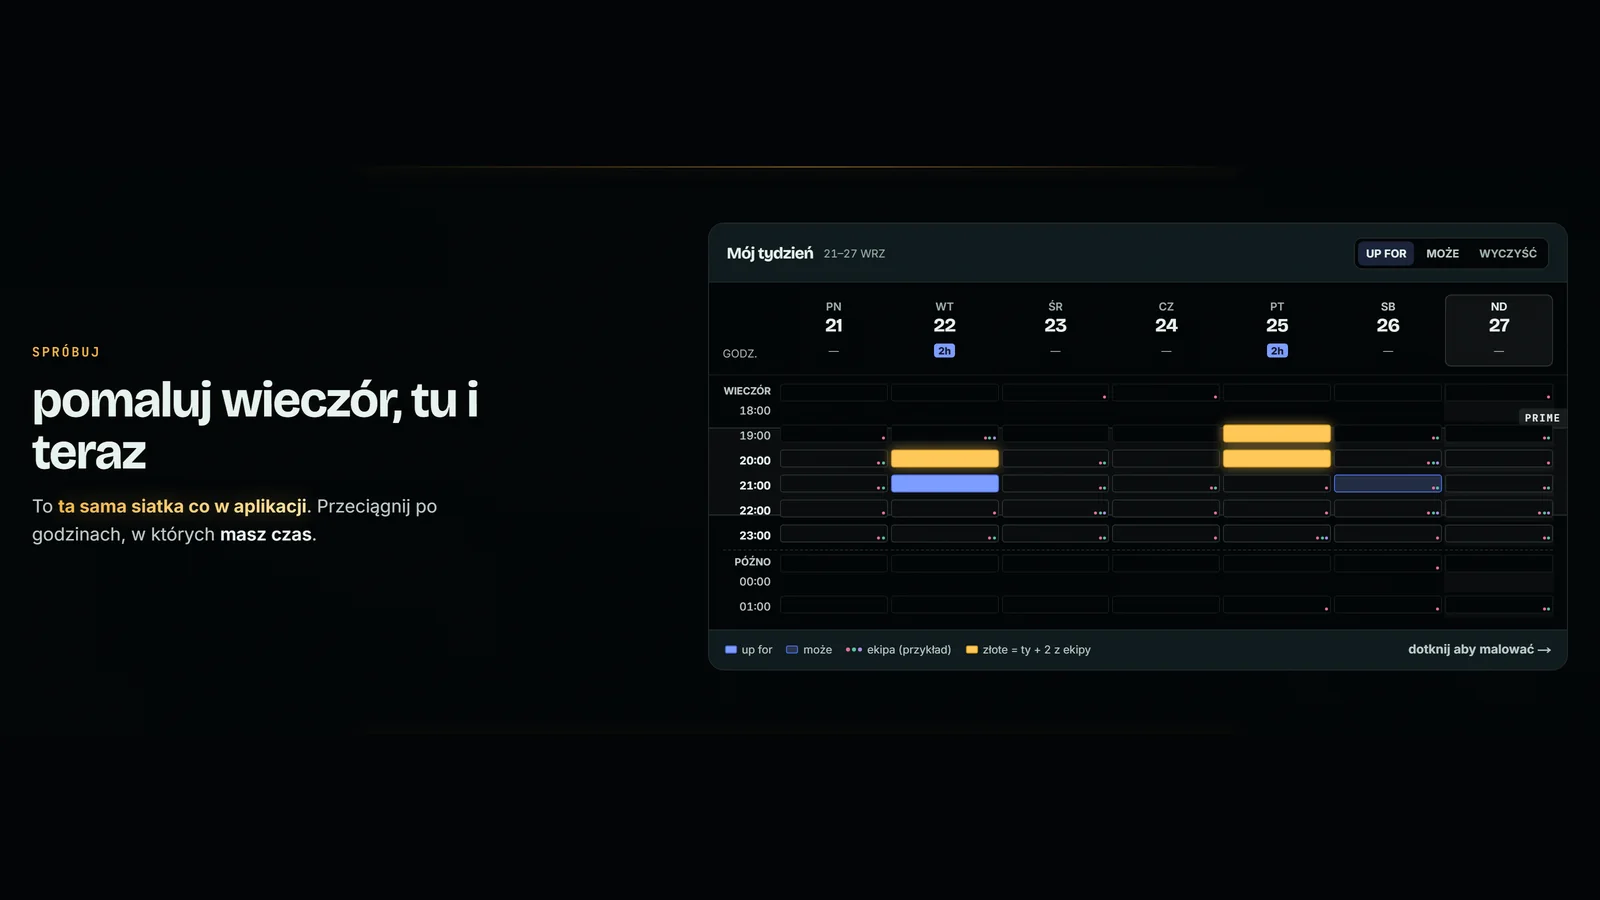
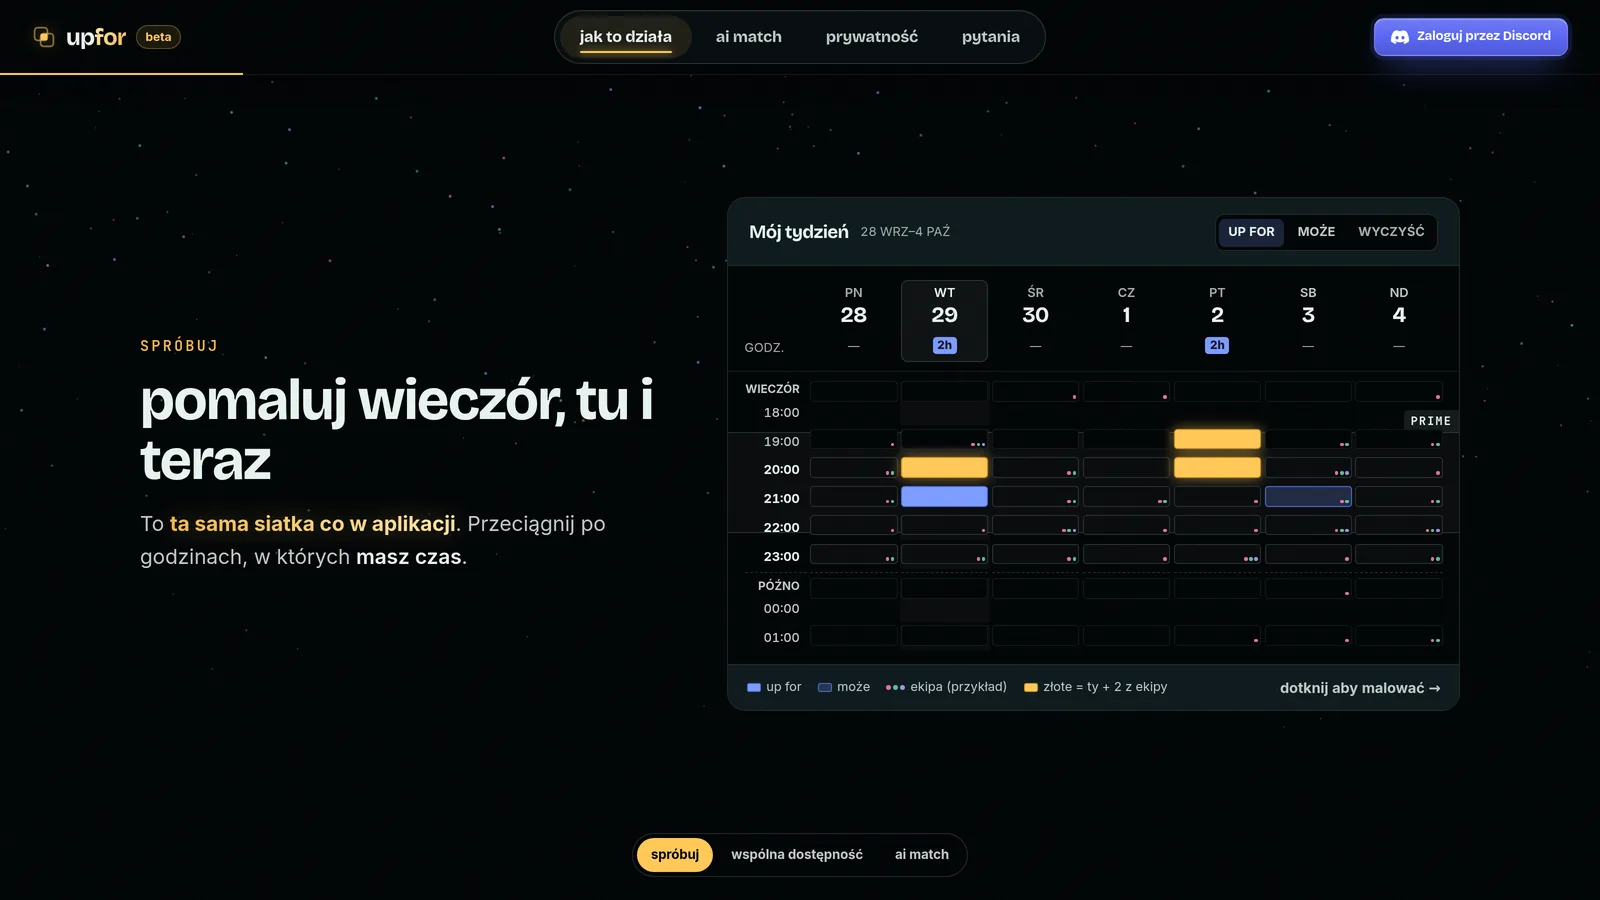
feat: aktualne zrzuty upfor i galeria Majeranka
upfor: cztery zrzuty z produkcji zrobione na nowo (29.09) po restylu
landingu — strona główna ze złotym oknem, „pomaluj wieczór”, wspólna
dostępność i ai match. Plansze „jak to działa” są teraz przewijane w poziomie,
więc każdą łapię przyciskiem kroku, a hero w klatce z gotowym złotym oknem.
Wersje: upfor.webp ?v=4, pozostałe ?v=2.

Majeranek: zamiast jednego zrzutu sprzed redesignu (czerwiec) galeria jak przy
Zorzy i upfor: nowy hero w stylu riso, „Cztery proste kroki”, sekcja AI/ELO
i widok „Odkryj kolekcje”. Zrzuty w 4:3 (1600×1200), bo slajd Majeranka
używa `object-fit: cover` i przy 16:9 ramka ucinała boki. Pasek adresu
podpisany „strona główna” z wersją EN, poprawiony alt („Zrzut ekranu: Majeranek”),
majeranek.webp ?v=3.

Claude-Session: https://claude.ai/code/session_01T3urgCYLpL9u9585afoXpj

diff --git a/index.html b/index.html
@@ -632,7 +632,7 @@
                                             <span class="showcase-url" data-en="upfor.pl · home">upfor.pl · strona główna</span>
                                         </div>
                                         <div class="showcase-stage">
-                                            <img class="showcase-img showcase-img--contain" src="assets/images/upfor.webp?v=3" alt="Zrzut ekranu: upfor" loading="lazy">
+                                            <img class="showcase-img showcase-img--contain" src="assets/images/upfor.webp?v=4" alt="Zrzut ekranu: upfor" loading="lazy">
                                             <div class="showcase-media-placeholder" aria-hidden="true">
                                                 <svg viewBox="0 0 24 24" fill="none" stroke="currentColor" stroke-width="1.4"><rect x="3" y="3" width="18" height="18" rx="2"/><circle cx="8.5" cy="8.5" r="1.5"/><path d="M21 15l-5-5L5 21"/></svg>
                                                 <span class="showcase-media-placeholder-note" data-en="Preview coming soon">Podgląd wkrótce</span>
@@ -640,10 +640,10 @@
                                         </div>
                                     </div>
                                     <div class="showcase-gallery">
-                                        <button type="button" class="showcase-thumb is-active" data-src="assets/images/upfor.webp?v=3" aria-label="Zrzut 1"><img src="assets/images/upfor.webp?v=3" alt="" loading="lazy"></button>
-                                        <button type="button" class="showcase-thumb" data-src="assets/images/upfor-kalendarz.webp" aria-label="Zrzut 2"><img src="assets/images/upfor-kalendarz.webp" alt="" loading="lazy"></button>
-                                        <button type="button" class="showcase-thumb" data-src="assets/images/upfor-grupa.webp" aria-label="Zrzut 3"><img src="assets/images/upfor-grupa.webp" alt="" loading="lazy"></button>
-                                        <button type="button" class="showcase-thumb" data-src="assets/images/upfor-ai.webp" aria-label="Zrzut 4"><img src="assets/images/upfor-ai.webp" alt="" loading="lazy"></button>
+                                        <button type="button" class="showcase-thumb is-active" data-src="assets/images/upfor.webp?v=4" aria-label="Zrzut 1"><img src="assets/images/upfor.webp?v=4" alt="" loading="lazy"></button>
+                                        <button type="button" class="showcase-thumb" data-src="assets/images/upfor-kalendarz.webp?v=2" aria-label="Zrzut 2"><img src="assets/images/upfor-kalendarz.webp?v=2" alt="" loading="lazy"></button>
+                                        <button type="button" class="showcase-thumb" data-src="assets/images/upfor-grupa.webp?v=2" aria-label="Zrzut 3"><img src="assets/images/upfor-grupa.webp?v=2" alt="" loading="lazy"></button>
+                                        <button type="button" class="showcase-thumb" data-src="assets/images/upfor-ai.webp?v=2" aria-label="Zrzut 4"><img src="assets/images/upfor-ai.webp?v=2" alt="" loading="lazy"></button>
                                     </div>
                                 </div>
                                 <div class="showcase-info">
@@ -786,10 +786,10 @@
                                             <span class="showcase-dot-red"></span>
                                             <span class="showcase-dot-amber"></span>
                                             <span class="showcase-dot-green"></span>
-                                            <span class="showcase-url">majeranek.vercel.app</span>
+                                            <span class="showcase-url" data-en="majeranek.vercel.app · home">majeranek.vercel.app · strona główna</span>
                                         </div>
                                         <div class="showcase-stage">
-                                            <img class="showcase-img" src="assets/images/majeranek.webp?v=2" alt="Zrzut ekranu:Majeranek" loading="lazy">
+                                            <img class="showcase-img" src="assets/images/majeranek.webp?v=3" alt="Zrzut ekranu: Majeranek" loading="lazy">
                                             <div class="showcase-media-placeholder" aria-hidden="true">
                                                 <svg viewBox="0 0 24 24" fill="none" stroke="currentColor" stroke-width="1.4"><rect x="3" y="3" width="18" height="18" rx="2"/><circle cx="8.5" cy="8.5" r="1.5"/><path d="M21 15l-5-5L5 21"/></svg>
                                                 <span class="showcase-media-placeholder-note" data-en="Preview coming soon">Podgląd wkrótce</span>
@@ -797,7 +797,10 @@
                                         </div>
                                     </div>
                                     <div class="showcase-gallery">
-                                        <button type="button" class="showcase-thumb is-active" data-src="assets/images/majeranek.webp?v=2" aria-label="Zrzut 1"><img src="assets/images/majeranek.webp?v=2" alt="" loading="lazy"></button>
+                                        <button type="button" class="showcase-thumb is-active" data-src="assets/images/majeranek.webp?v=3" aria-label="Zrzut 1"><img src="assets/images/majeranek.webp?v=3" alt="" loading="lazy"></button>
+                                        <button type="button" class="showcase-thumb" data-src="assets/images/majeranek-kroki.webp" aria-label="Zrzut 2"><img src="assets/images/majeranek-kroki.webp" alt="" loading="lazy"></button>
+                                        <button type="button" class="showcase-thumb" data-src="assets/images/majeranek-ai.webp" aria-label="Zrzut 3"><img src="assets/images/majeranek-ai.webp" alt="" loading="lazy"></button>
+                                        <button type="button" class="showcase-thumb" data-src="assets/images/majeranek-kolekcje.webp" aria-label="Zrzut 4"><img src="assets/images/majeranek-kolekcje.webp" alt="" loading="lazy"></button>
                                     </div>
                                 </div>
                                 <div class="showcase-info">
